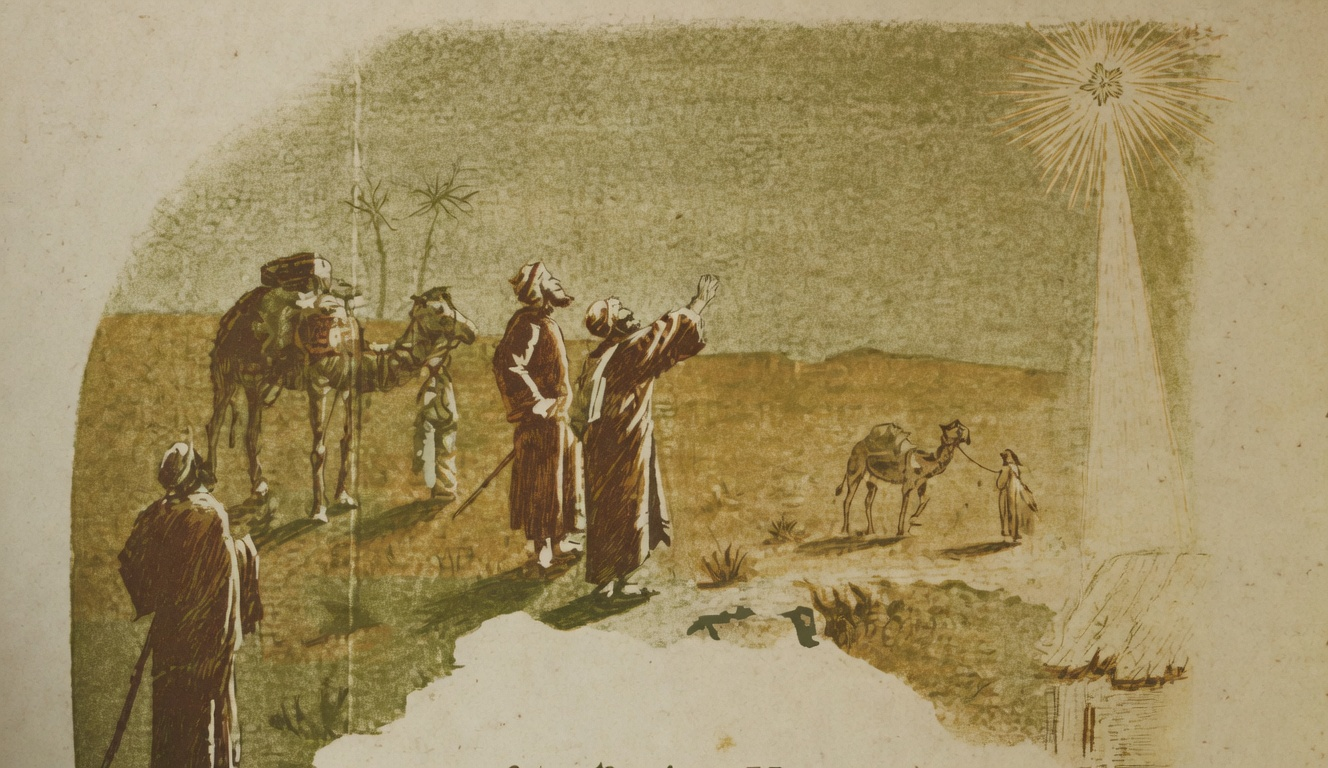
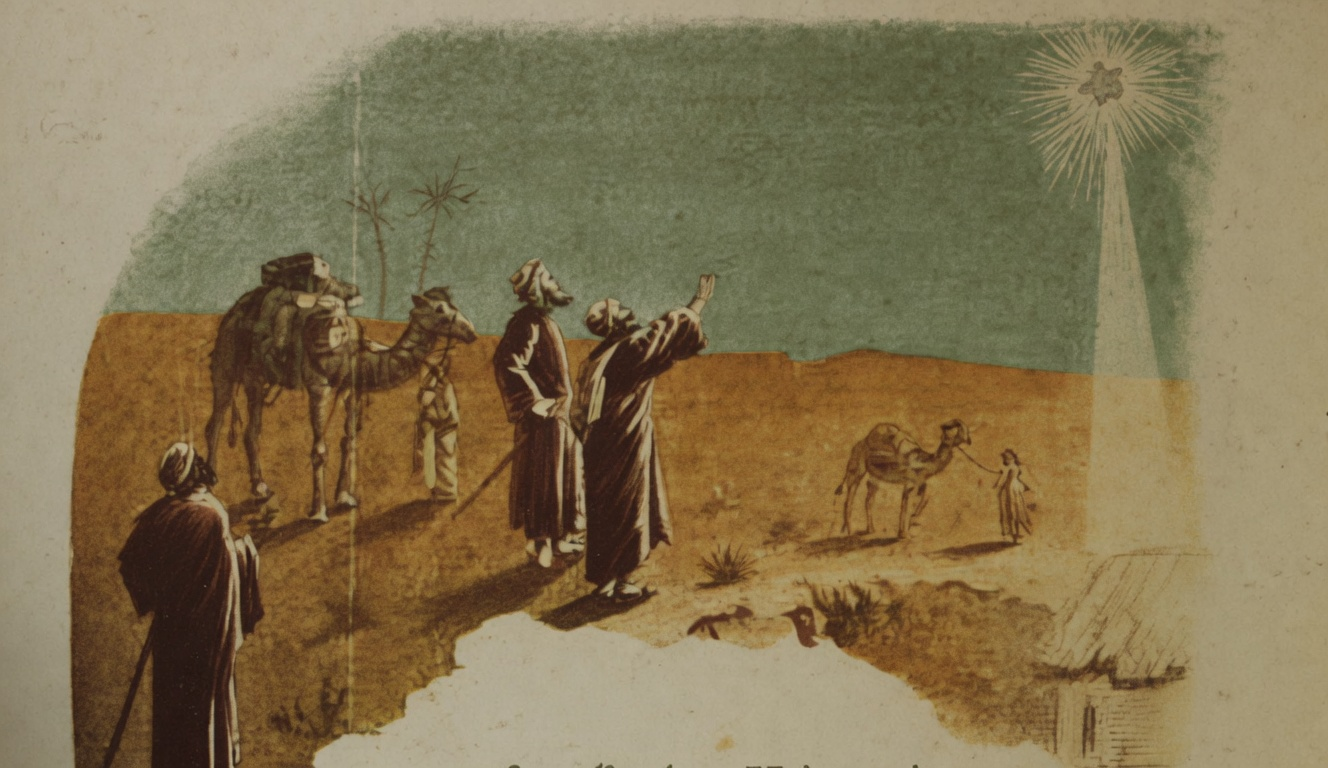
fix: recolor gravuras fracas da edição 1904
Segunda passagem em Natal, Plutão, As flores e outras chapas.
A Coragem e A Patria seguem no recorte do scan.

diff --git a/source/text/colofao.md b/source/text/colofao.md
@@ -16,7 +16,7 @@ Scan: Brasiliana Digital, Biblioteca Brasiliana Guita e José Mindlin (USP), ace
 
 A transcrição foi collacionada contra esse scan. A ortografia da edição foi conservada.
 
-As gravuras de cabeçalho foram recortadas do scan e depois coloridas por modelo, no molde da cromolitografia da capa de 1904. O traço de partida é o da edição; a cor é intervenção desta edição digital. *A Coragem* e *A Patria* ficaram no recorte do scan, sem cor. O PDF da BBM está comprimido (~150 dpi).
+As gravuras de cabeçalho foram recortadas do scan e depois coloridas, no molde da cromolitografia da capa de 1904. O traço de partida é o da edição; a cor é intervenção desta edição. *A Coragem* e *A Patria* ficaram no recorte, sem cor. *Os mezes* (bandeirinhas) e *Inverno* ainda mostram o dano do scan (~150 dpi).
 
 O ilustrador assina **HM** em várias pranchas. O nome completo ainda não foi identificado.
 
